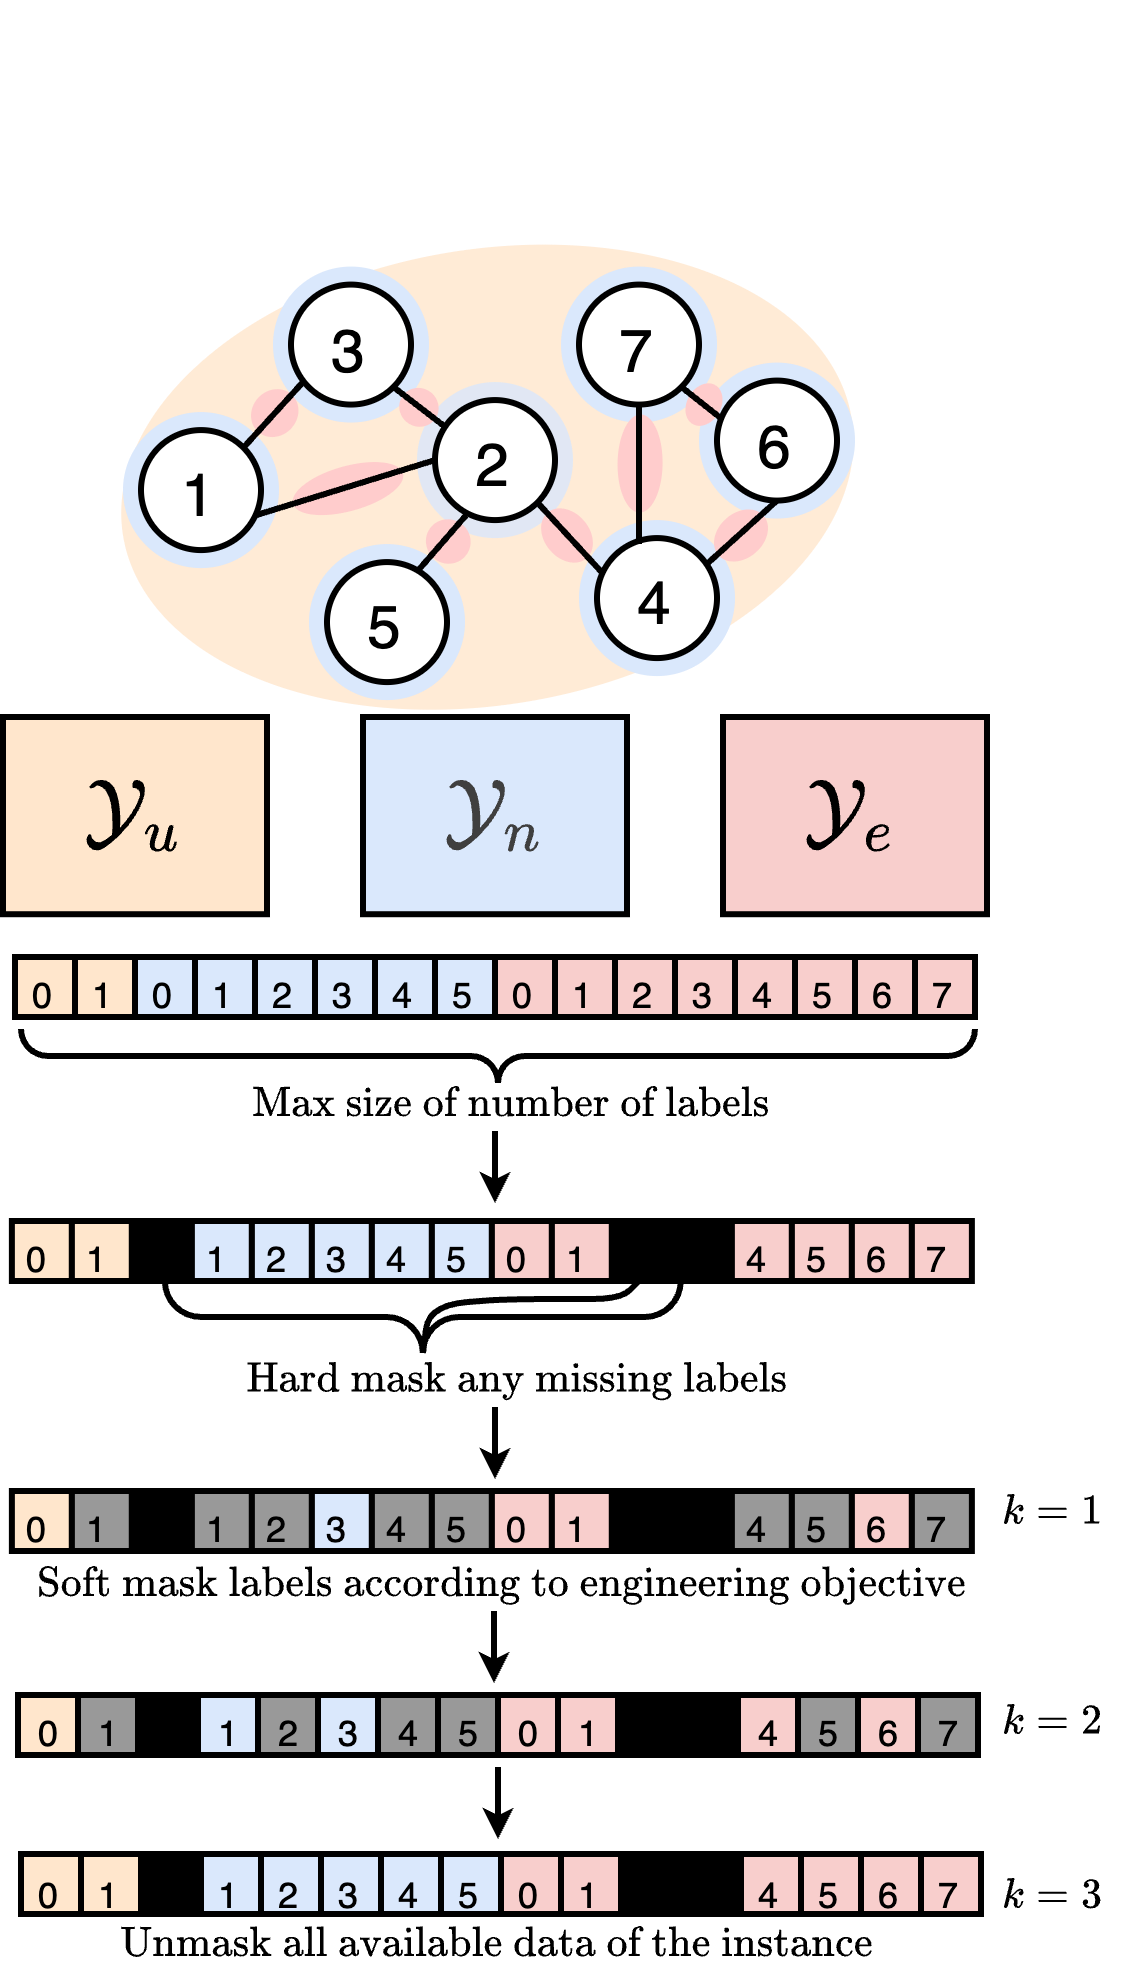
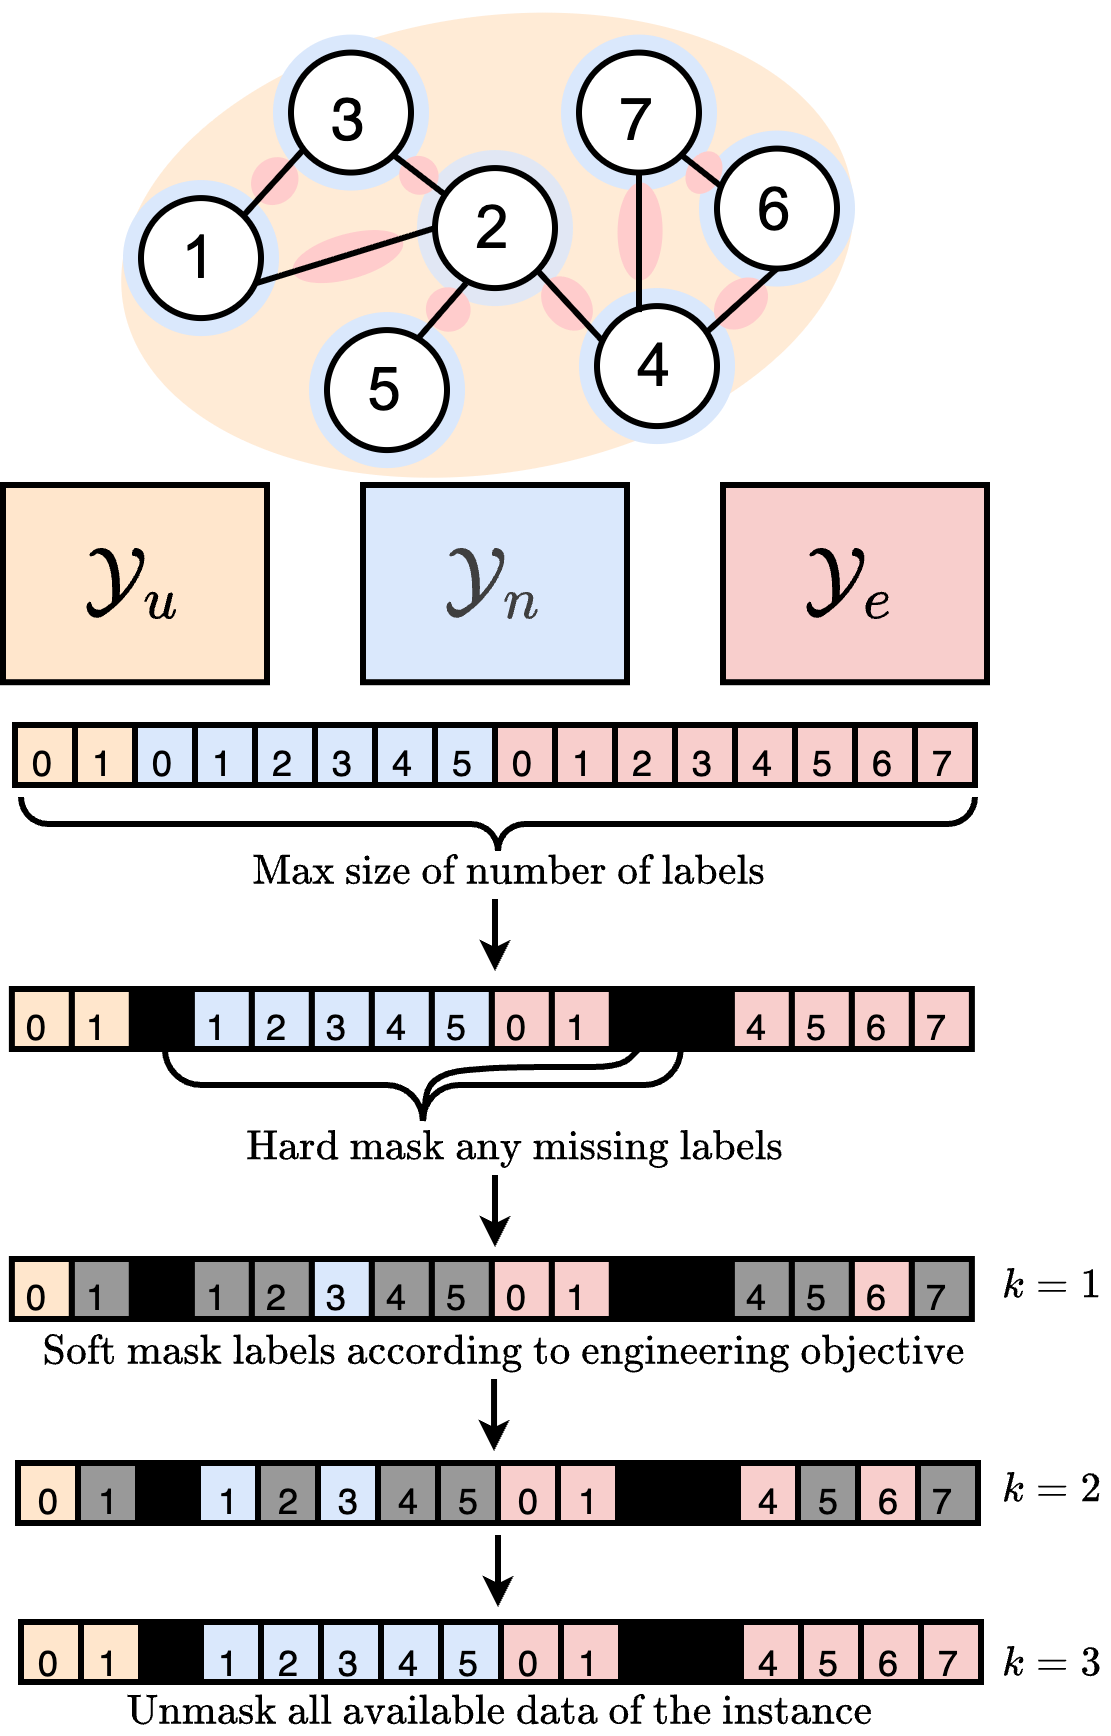
Paper: resize Fig 1 (height-driven 130mm) and trim export whitespace
Portrait overview diagram was filling the page (height=170mm cap) with a ~244px
blank band on top from the un-cropped draw.io export. Switch to height=130mm
(centered, aspect preserved) and auto-trim figures/fig1_overview.png to content.
Final: export vector PDF with crop from draw.io.

diff --git a/paper/nature-biotech/sections/results.tex b/paper/nature-biotech/sections/results.tex
@@ -15,7 +15,10 @@ Suppl.\ Fig.\ S4).
 %% before submission -- Nature wants vector for line art.
 \begin{figure*}[t]
 \centering
-\includegraphics[width=\textwidth,height=170mm,keepaspectratio]{figures/fig1_overview.png}
+% Portrait diagram (aspect ~0.64): size by HEIGHT so it doesn't fill the page.
+% Tune the 130mm to taste. Final: export a vector PDF from draw.io (crop on) and
+% swap to figures/fig1_overview.pdf.
+\includegraphics[height=130mm]{figures/fig1_overview.png}
 \caption{TorchCell: ontology-unified knowledge graph and the perturbation-operator
 cell representation. Panels (a)--(d).}
 \label{fig:overview}